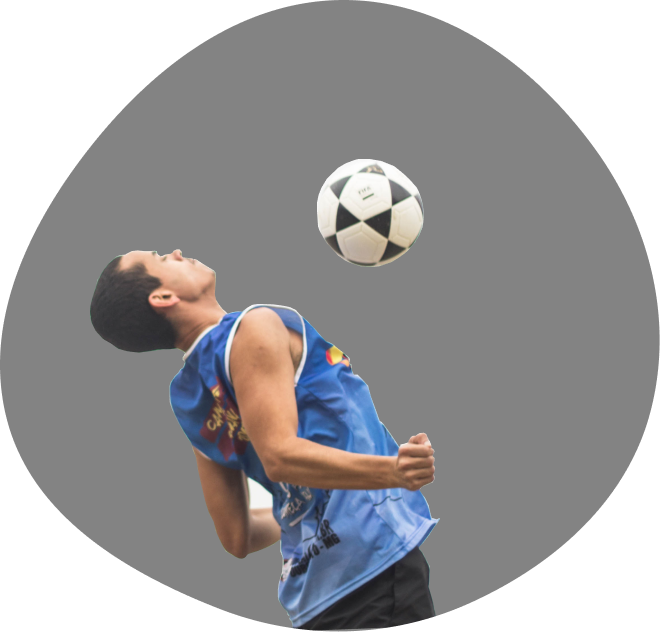
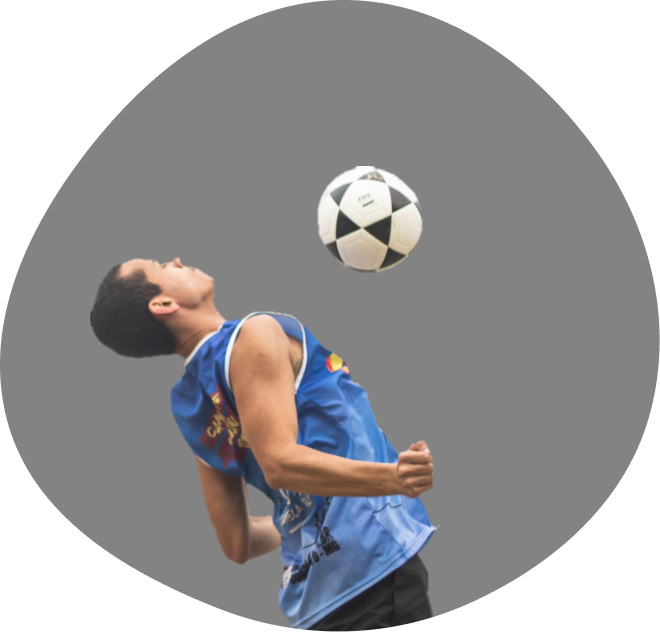
fix: player img

diff --git a/public/sw.js b/public/sw.js
@@ -1,1 +1,1 @@
-if(!self.define){let e,s={};const n=(n,a)=>(n=new URL(n+".js",a).href,s[n]||new Promise((s=>{if("document"in self){const e=document.createElement("script");e.src=n,e.onload=s,document.head.appendChild(e)}else e=n,importScripts(n),s()})).then((()=>{let e=s[n];if(!e)throw new Error(`Module ${n} didn’t register its module`);return e})));self.define=(a,i)=>{const c=e||("document"in self?document.currentScript.src:"")||location.href;if(s[c])return;let o={};const r=e=>n(e,c),t={module:{uri:c},exports:o,require:r};s[c]=Promise.all(a.map((e=>t[e]||r(e)))).then((e=>(i(...e),o)))}}define(["./workbox-5afaf374"],(function(e){"use strict";importScripts(),self.skipWaiting(),e.clientsClaim(),e.precacheAndRoute([{url:"/404.json",revision:"9134c572173e93ddd7edff3e97e013da"},{url:"/_next/static/chunks/978-c6bd2a6d2a6fff8d.js",revision:"xep8DeCKbRnAaKvUVMsRq"},{url:"/_next/static/chunks/ea88be26-4785f7f12099037b.js",revision:"xep8DeCKbRnAaKvUVMsRq"},{url:"/_next/static/chunks/framework-5f4595e5518b5600.js",revision:"xep8DeCKbRnAaKvUVMsRq"},{url:"/_next/static/chunks/main-ef3326d12c3c1441.js",revision:"xep8DeCKbRnAaKvUVMsRq"},{url:"/_next/static/chunks/pages/404-277260b7f16991fe.js",revision:"xep8DeCKbRnAaKvUVMsRq"},{url:"/_next/static/chunks/pages/_app-c825bdf7ffc8a375.js",revision:"xep8DeCKbRnAaKvUVMsRq"},{url:"/_next/static/chunks/pages/_error-2280fa386d040b66.js",revision:"xep8DeCKbRnAaKvUVMsRq"},{url:"/_next/static/chunks/pages/index-4abd5f380a1a5b12.js",revision:"xep8DeCKbRnAaKvUVMsRq"},{url:"/_next/static/chunks/pages/login-02189e4b60b38753.js",revision:"xep8DeCKbRnAaKvUVMsRq"},{url:"/_next/static/chunks/pages/register-cfd881bb6f291648.js",revision:"xep8DeCKbRnAaKvUVMsRq"},{url:"/_next/static/chunks/polyfills-5cd94c89d3acac5f.js",revision:"xep8DeCKbRnAaKvUVMsRq"},{url:"/_next/static/chunks/webpack-434fefa8f39d8fbc.js",revision:"xep8DeCKbRnAaKvUVMsRq"},{url:"/_next/static/css/159bbce6f1598e3e.css",revision:"xep8DeCKbRnAaKvUVMsRq"},{url:"/_next/static/css/249e1ad039538d01.css",revision:"xep8DeCKbRnAaKvUVMsRq"},{url:"/_next/static/css/3404455c68fd05ee.css",revision:"xep8DeCKbRnAaKvUVMsRq"},{url:"/_next/static/css/5f010ee9cf3ed134.css",revision:"xep8DeCKbRnAaKvUVMsRq"},{url:"/_next/static/css/a4e4f8197a6b2ec7.css",revision:"xep8DeCKbRnAaKvUVMsRq"},{url:"/_next/static/xep8DeCKbRnAaKvUVMsRq/_buildManifest.js",revision:"xep8DeCKbRnAaKvUVMsRq"},{url:"/_next/static/xep8DeCKbRnAaKvUVMsRq/_middlewareManifest.js",revision:"xep8DeCKbRnAaKvUVMsRq"},{url:"/_next/static/xep8DeCKbRnAaKvUVMsRq/_ssgManifest.js",revision:"xep8DeCKbRnAaKvUVMsRq"},{url:"/curvedLine.svg",revision:"6e4bea24c9fe9e0303f8dec51bd3a30d"},{url:"/favicon-16x16.png",revision:"0c33fd9f3abae07e9a6548dcedb43906"},{url:"/favicon-32x32.png",revision:"00c927bb37a46d77070f6590bc0b0420"},{url:"/favicon.ico",revision:"1714ed831eea52be280426edcb118319"},{url:"/goal.svg",revision:"f9dc8d9b0d113ce0092f998f06d84432"},{url:"/ipad_splash.png",revision:"6e3030646cda36ddf136b33c80cb0ed0"},{url:"/ipadpro1_splash.png",revision:"cac505df63ef459716e66824b8d0f409"},{url:"/ipadpro2_splash.png",revision:"85dd43f0598273d4bf6bebf0e7be65c4"},{url:"/ipadpro3_splash.png",revision:"e51e03b40cc6a1a079ede9b7cf5db720"},{url:"/iphone5_splash.png",revision:"e55c5dc2ff2160fe15fc72ff2dfbe9d9"},{url:"/iphone6_splash.png",revision:"0aa08c42cfb3bf1933dab6a82ce8bb2c"},{url:"/iphoneplus_splash.png",revision:"9d2de26b5688f10f91ca50aee6f08b51"},{url:"/iphonex_splash.png",revision:"d77144a51746448d1c3b56e15ea5012e"},{url:"/iphonexr_splash.png",revision:"1ea506e1027aaa5bfe673897f6a06341"},{url:"/iphonexsmax_splash.png",revision:"69a1ccbee557e00828a74eeb84434259"},{url:"/line.svg",revision:"6d89aed1aad6d93ab0d36829bb0f8c66"},{url:"/locales/en/404.json",revision:"1ed2c9d497d3f144d6d94e874ebb3f97"},{url:"/locales/en/common.json",revision:"631f3af55d51ff815f646cf05ba7e983"},{url:"/locales/en/footer.json",revision:"3ff1563d51f748b9a07e4c7809f7869a"},{url:"/locales/en/header.json",revision:"c88367398139da2742336516b16ea51b"},{url:"/locales/en/home.json",revision:"e8d3aa8cd5a70352f63ee9795795a985"},{url:"/locales/en/login.json",revision:"43b54357239a80400761cbac3576aadd"},{url:"/locales/en/register.json",revision:"04a3e0bfa64868748ca33ec9d83e3b5e"},{url:"/locales/pt/404.json",revision:"0c09a2fe3222cd8d6fd0ffe6dfab6f8a"},{url:"/locales/pt/common.json",revision:"91af2ad1ef582b6e33c3fe8f982ea58a"},{url:"/locales/pt/footer.json",revision:"6c3821f52d6592ea5d5559917a5e8ad2"},{url:"/locales/pt/header.json",revision:"c8bbdc40a0c694fa25bef314c6efcb13"},{url:"/locales/pt/home.json",revision:"c01fe54d52f3209dd929b6e27844f180"},{url:"/locales/pt/login.json",revision:"ce8cc10df63a6d0995f6dc142681129b"},{url:"/locales/pt/register.json",revision:"9dd6531530df54d235999bd3e7857ab1"},{url:"/logo.json",revision:"88669777d2555bf964e744d0f7a7d86c"},{url:"/logo.svg",revision:"59847573f81c4c35c5588500423a72aa"},{url:"/logo16.png",revision:"662205369fd192b9251c59bcef848978"},{url:"/logo192.png",revision:"a4b836421fe640426611844c04c03ab8"},{url:"/logo24.png",revision:"26fd0e3cdba4c1f57c9944012d42faf4"},{url:"/logo32.png",revision:"1b5116cad5c1b48823b74a5f0e4b5691"},{url:"/logo512.png",revision:"a190be539e29ddeabf75fd4ddf97e109"},{url:"/logo64.png",revision:"2fc4995edb3057c729de40dd2180948f"},{url:"/manifest.json",revision:"3957e56bc2ac18de4e46232650ae5006"},{url:"/metaTags.png",revision:"2db62dab212fad58318c9100bd32e7ed"},{url:"/player.png",revision:"1e6bd90855a91cf203052b8bf0db3466"},{url:"/soccer.svg",revision:"754d0b69a72cc9809e6806034e7f7044"},{url:"/touch-icon-ipad-retina.png",revision:"bda64bf27c876f61d218dc20b70ccc11"},{url:"/touch-icon-ipad.png",revision:"b5738966a3feebc90796565a776f8432"},{url:"/touch-icon-iphone-retina.png",revision:"1128fc702a8d17076a0c77cdef026ef9"},{url:"/up.svg",revision:"c8c3f7256bf05852a11f85d8f1ab2c5c"},{url:"/vercel.svg",revision:"4b4f1876502eb6721764637fe5c41702"}],{ignoreURLParametersMatching:[]}),e.cleanupOutdatedCaches(),e.registerRoute("/",new e.NetworkFirst({cacheName:"start-url",plugins:[{cacheWillUpdate:async({request:e,response:s,event:n,state:a})=>s&&"opaqueredirect"===s.type?new Response(s.body,{status:200,statusText:"OK",headers:s.headers}):s}]}),"GET"),e.registerRoute(/^https:\/\/fonts\.(?:gstatic)\.com\/.*/i,new e.CacheFirst({cacheName:"google-fonts-webfonts",plugins:[new e.ExpirationPlugin({maxEntries:4,maxAgeSeconds:31536e3})]}),"GET"),e.registerRoute(/^https:\/\/fonts\.(?:googleapis)\.com\/.*/i,new e.StaleWhileRevalidate({cacheName:"google-fonts-stylesheets",plugins:[new e.ExpirationPlugin({maxEntries:4,maxAgeSeconds:604800})]}),"GET"),e.registerRoute(/\.(?:eot|otf|ttc|ttf|woff|woff2|font.css)$/i,new e.StaleWhileRevalidate({cacheName:"static-font-assets",plugins:[new e.ExpirationPlugin({maxEntries:4,maxAgeSeconds:604800})]}),"GET"),e.registerRoute(/\.(?:jpg|jpeg|gif|png|svg|ico|webp)$/i,new e.StaleWhileRevalidate({cacheName:"static-image-assets",plugins:[new e.ExpirationPlugin({maxEntries:64,maxAgeSeconds:86400})]}),"GET"),e.registerRoute(/\/_next\/image\?url=.+$/i,new e.StaleWhileRevalidate({cacheName:"next-image",plugins:[new e.ExpirationPlugin({maxEntries:64,maxAgeSeconds:86400})]}),"GET"),e.registerRoute(/\.(?:mp3|wav|ogg)$/i,new e.CacheFirst({cacheName:"static-audio-assets",plugins:[new e.RangeRequestsPlugin,new e.ExpirationPlugin({maxEntries:32,maxAgeSeconds:86400})]}),"GET"),e.registerRoute(/\.(?:mp4)$/i,new e.CacheFirst({cacheName:"static-video-assets",plugins:[new e.RangeRequestsPlugin,new e.ExpirationPlugin({maxEntries:32,maxAgeSeconds:86400})]}),"GET"),e.registerRoute(/\.(?:js)$/i,new e.StaleWhileRevalidate({cacheName:"static-js-assets",plugins:[new e.ExpirationPlugin({maxEntries:32,maxAgeSeconds:86400})]}),"GET"),e.registerRoute(/\.(?:css|less)$/i,new e.StaleWhileRevalidate({cacheName:"static-style-assets",plugins:[new e.ExpirationPlugin({maxEntries:32,maxAgeSeconds:86400})]}),"GET"),e.registerRoute(/\/_next\/data\/.+\/.+\.json$/i,new e.StaleWhileRevalidate({cacheName:"next-data",plugins:[new e.ExpirationPlugin({maxEntries:32,maxAgeSeconds:86400})]}),"GET"),e.registerRoute(/\.(?:json|xml|csv)$/i,new e.NetworkFirst({cacheName:"static-data-assets",plugins:[new e.ExpirationPlugin({maxEntries:32,maxAgeSeconds:86400})]}),"GET"),e.registerRoute((({url:e})=>{if(!(self.origin===e.origin))return!1;const s=e.pathname;return!s.startsWith("/api/auth/")&&!!s.startsWith("/api/")}),new e.NetworkFirst({cacheName:"apis",networkTimeoutSeconds:10,plugins:[new e.ExpirationPlugin({maxEntries:16,maxAgeSeconds:86400})]}),"GET"),e.registerRoute((({url:e})=>{if(!(self.origin===e.origin))return!1;return!e.pathname.startsWith("/api/")}),new e.NetworkFirst({cacheName:"others",networkTimeoutSeconds:10,plugins:[new e.ExpirationPlugin({maxEntries:32,maxAgeSeconds:86400})]}),"GET"),e.registerRoute((({url:e})=>!(self.origin===e.origin)),new e.NetworkFirst({cacheName:"cross-origin",networkTimeoutSeconds:10,plugins:[new e.ExpirationPlugin({maxEntries:32,maxAgeSeconds:3600})]}),"GET")}));
+if(!self.define){let e,s={};const a=(a,i)=>(a=new URL(a+".js",i).href,s[a]||new Promise((s=>{if("document"in self){const e=document.createElement("script");e.src=a,e.onload=s,document.head.appendChild(e)}else e=a,importScripts(a),s()})).then((()=>{let e=s[a];if(!e)throw new Error(`Module ${a} didn’t register its module`);return e})));self.define=(i,n)=>{const c=e||("document"in self?document.currentScript.src:"")||location.href;if(s[c])return;let o={};const r=e=>a(e,c),t={module:{uri:c},exports:o,require:r};s[c]=Promise.all(i.map((e=>t[e]||r(e)))).then((e=>(n(...e),o)))}}define(["./workbox-5afaf374"],(function(e){"use strict";importScripts(),self.skipWaiting(),e.clientsClaim(),e.precacheAndRoute([{url:"/404.json",revision:"9134c572173e93ddd7edff3e97e013da"},{url:"/_next/static/cXOICiI2ABuu4Jhka6aeJ/_buildManifest.js",revision:"cXOICiI2ABuu4Jhka6aeJ"},{url:"/_next/static/cXOICiI2ABuu4Jhka6aeJ/_middlewareManifest.js",revision:"cXOICiI2ABuu4Jhka6aeJ"},{url:"/_next/static/cXOICiI2ABuu4Jhka6aeJ/_ssgManifest.js",revision:"cXOICiI2ABuu4Jhka6aeJ"},{url:"/_next/static/chunks/978-c6bd2a6d2a6fff8d.js",revision:"cXOICiI2ABuu4Jhka6aeJ"},{url:"/_next/static/chunks/ea88be26-4785f7f12099037b.js",revision:"cXOICiI2ABuu4Jhka6aeJ"},{url:"/_next/static/chunks/framework-5f4595e5518b5600.js",revision:"cXOICiI2ABuu4Jhka6aeJ"},{url:"/_next/static/chunks/main-ef3326d12c3c1441.js",revision:"cXOICiI2ABuu4Jhka6aeJ"},{url:"/_next/static/chunks/pages/404-277260b7f16991fe.js",revision:"cXOICiI2ABuu4Jhka6aeJ"},{url:"/_next/static/chunks/pages/_app-c825bdf7ffc8a375.js",revision:"cXOICiI2ABuu4Jhka6aeJ"},{url:"/_next/static/chunks/pages/_error-2280fa386d040b66.js",revision:"cXOICiI2ABuu4Jhka6aeJ"},{url:"/_next/static/chunks/pages/index-4abd5f380a1a5b12.js",revision:"cXOICiI2ABuu4Jhka6aeJ"},{url:"/_next/static/chunks/pages/login-02189e4b60b38753.js",revision:"cXOICiI2ABuu4Jhka6aeJ"},{url:"/_next/static/chunks/pages/register-cfd881bb6f291648.js",revision:"cXOICiI2ABuu4Jhka6aeJ"},{url:"/_next/static/chunks/polyfills-5cd94c89d3acac5f.js",revision:"cXOICiI2ABuu4Jhka6aeJ"},{url:"/_next/static/chunks/webpack-434fefa8f39d8fbc.js",revision:"cXOICiI2ABuu4Jhka6aeJ"},{url:"/_next/static/css/3404455c68fd05ee.css",revision:"cXOICiI2ABuu4Jhka6aeJ"},{url:"/_next/static/css/53ba1f43cd930639.css",revision:"cXOICiI2ABuu4Jhka6aeJ"},{url:"/_next/static/css/8241f45c1e009532.css",revision:"cXOICiI2ABuu4Jhka6aeJ"},{url:"/_next/static/css/c7422a8163e2c600.css",revision:"cXOICiI2ABuu4Jhka6aeJ"},{url:"/_next/static/css/d269e8b0045fda6d.css",revision:"cXOICiI2ABuu4Jhka6aeJ"},{url:"/curvedLine.svg",revision:"6e4bea24c9fe9e0303f8dec51bd3a30d"},{url:"/favicon-16x16.png",revision:"0c33fd9f3abae07e9a6548dcedb43906"},{url:"/favicon-32x32.png",revision:"00c927bb37a46d77070f6590bc0b0420"},{url:"/favicon.ico",revision:"1714ed831eea52be280426edcb118319"},{url:"/goal.svg",revision:"f9dc8d9b0d113ce0092f998f06d84432"},{url:"/ipad_splash.png",revision:"4788f0ecb9e6330a3b25a65d43ba1eb1"},{url:"/ipadpro1_splash.png",revision:"c2cab31163f4777351c37e316c20172c"},{url:"/ipadpro2_splash.png",revision:"66b03b2341b1af7e1ddfa5d4358a8abd"},{url:"/ipadpro3_splash.png",revision:"6fa32840129feb190ede0db0cbebdd27"},{url:"/iphone5_splash.png",revision:"4fe6b6cb81e2c72d8c364f15a293b83c"},{url:"/iphone6_splash.png",revision:"e7da15a2ba6f8e3c12c98d70347a3f20"},{url:"/iphoneplus_splash.png",revision:"0e1377a37daa027f1921f3f9d0ffa586"},{url:"/iphonex_splash.png",revision:"8fd04bd75189d059c7c9c787936bbe7c"},{url:"/iphonexr_splash.png",revision:"10ea7139190d7c1a71ee4a115a55cdf1"},{url:"/iphonexsmax_splash.png",revision:"de99321fe742096a576193360f8cde74"},{url:"/line.svg",revision:"6d89aed1aad6d93ab0d36829bb0f8c66"},{url:"/locales/en/404.json",revision:"1ed2c9d497d3f144d6d94e874ebb3f97"},{url:"/locales/en/common.json",revision:"631f3af55d51ff815f646cf05ba7e983"},{url:"/locales/en/footer.json",revision:"3ff1563d51f748b9a07e4c7809f7869a"},{url:"/locales/en/header.json",revision:"c88367398139da2742336516b16ea51b"},{url:"/locales/en/home.json",revision:"e8d3aa8cd5a70352f63ee9795795a985"},{url:"/locales/en/login.json",revision:"43b54357239a80400761cbac3576aadd"},{url:"/locales/en/register.json",revision:"04a3e0bfa64868748ca33ec9d83e3b5e"},{url:"/locales/pt/404.json",revision:"0c09a2fe3222cd8d6fd0ffe6dfab6f8a"},{url:"/locales/pt/common.json",revision:"91af2ad1ef582b6e33c3fe8f982ea58a"},{url:"/locales/pt/footer.json",revision:"6c3821f52d6592ea5d5559917a5e8ad2"},{url:"/locales/pt/header.json",revision:"c8bbdc40a0c694fa25bef314c6efcb13"},{url:"/locales/pt/home.json",revision:"c01fe54d52f3209dd929b6e27844f180"},{url:"/locales/pt/login.json",revision:"ce8cc10df63a6d0995f6dc142681129b"},{url:"/locales/pt/register.json",revision:"9dd6531530df54d235999bd3e7857ab1"},{url:"/logo.json",revision:"88669777d2555bf964e744d0f7a7d86c"},{url:"/logo.svg",revision:"59847573f81c4c35c5588500423a72aa"},{url:"/logo16.png",revision:"08dbdbb8bc8a78a4bcb25a7e1b1d785a"},{url:"/logo192.png",revision:"2e1df6e6144f0dd44c6840d02b5c8ba2"},{url:"/logo24.png",revision:"0dbe581ee4b480ee734f5988151bf3f0"},{url:"/logo32.png",revision:"49d9ea0f1e30f806264d3a16ca4effca"},{url:"/logo512.png",revision:"35fd2a6be0e6284a2cbcecfd5df9f535"},{url:"/logo64.png",revision:"c0bb56b420a952f76b1879325dca07d0"},{url:"/manifest.json",revision:"3957e56bc2ac18de4e46232650ae5006"},{url:"/metaTags.png",revision:"2db62dab212fad58318c9100bd32e7ed"},{url:"/player.png",revision:"56178c469e33158d8cbc378aeed60c07"},{url:"/soccer.svg",revision:"754d0b69a72cc9809e6806034e7f7044"},{url:"/touch-icon-ipad-retina.png",revision:"184226f6dd3beb3b06d133c141976453"},{url:"/touch-icon-ipad.png",revision:"1eaedad9b47b7b26e35afee06b0f7806"},{url:"/touch-icon-iphone-retina.png",revision:"659bd300bbd007264924e3d7bcd12819"},{url:"/up.svg",revision:"c8c3f7256bf05852a11f85d8f1ab2c5c"},{url:"/vercel.svg",revision:"4b4f1876502eb6721764637fe5c41702"}],{ignoreURLParametersMatching:[]}),e.cleanupOutdatedCaches(),e.registerRoute("/",new e.NetworkFirst({cacheName:"start-url",plugins:[{cacheWillUpdate:async({request:e,response:s,event:a,state:i})=>s&&"opaqueredirect"===s.type?new Response(s.body,{status:200,statusText:"OK",headers:s.headers}):s}]}),"GET"),e.registerRoute(/^https:\/\/fonts\.(?:gstatic)\.com\/.*/i,new e.CacheFirst({cacheName:"google-fonts-webfonts",plugins:[new e.ExpirationPlugin({maxEntries:4,maxAgeSeconds:31536e3})]}),"GET"),e.registerRoute(/^https:\/\/fonts\.(?:googleapis)\.com\/.*/i,new e.StaleWhileRevalidate({cacheName:"google-fonts-stylesheets",plugins:[new e.ExpirationPlugin({maxEntries:4,maxAgeSeconds:604800})]}),"GET"),e.registerRoute(/\.(?:eot|otf|ttc|ttf|woff|woff2|font.css)$/i,new e.StaleWhileRevalidate({cacheName:"static-font-assets",plugins:[new e.ExpirationPlugin({maxEntries:4,maxAgeSeconds:604800})]}),"GET"),e.registerRoute(/\.(?:jpg|jpeg|gif|png|svg|ico|webp)$/i,new e.StaleWhileRevalidate({cacheName:"static-image-assets",plugins:[new e.ExpirationPlugin({maxEntries:64,maxAgeSeconds:86400})]}),"GET"),e.registerRoute(/\/_next\/image\?url=.+$/i,new e.StaleWhileRevalidate({cacheName:"next-image",plugins:[new e.ExpirationPlugin({maxEntries:64,maxAgeSeconds:86400})]}),"GET"),e.registerRoute(/\.(?:mp3|wav|ogg)$/i,new e.CacheFirst({cacheName:"static-audio-assets",plugins:[new e.RangeRequestsPlugin,new e.ExpirationPlugin({maxEntries:32,maxAgeSeconds:86400})]}),"GET"),e.registerRoute(/\.(?:mp4)$/i,new e.CacheFirst({cacheName:"static-video-assets",plugins:[new e.RangeRequestsPlugin,new e.ExpirationPlugin({maxEntries:32,maxAgeSeconds:86400})]}),"GET"),e.registerRoute(/\.(?:js)$/i,new e.StaleWhileRevalidate({cacheName:"static-js-assets",plugins:[new e.ExpirationPlugin({maxEntries:32,maxAgeSeconds:86400})]}),"GET"),e.registerRoute(/\.(?:css|less)$/i,new e.StaleWhileRevalidate({cacheName:"static-style-assets",plugins:[new e.ExpirationPlugin({maxEntries:32,maxAgeSeconds:86400})]}),"GET"),e.registerRoute(/\/_next\/data\/.+\/.+\.json$/i,new e.StaleWhileRevalidate({cacheName:"next-data",plugins:[new e.ExpirationPlugin({maxEntries:32,maxAgeSeconds:86400})]}),"GET"),e.registerRoute(/\.(?:json|xml|csv)$/i,new e.NetworkFirst({cacheName:"static-data-assets",plugins:[new e.ExpirationPlugin({maxEntries:32,maxAgeSeconds:86400})]}),"GET"),e.registerRoute((({url:e})=>{if(!(self.origin===e.origin))return!1;const s=e.pathname;return!s.startsWith("/api/auth/")&&!!s.startsWith("/api/")}),new e.NetworkFirst({cacheName:"apis",networkTimeoutSeconds:10,plugins:[new e.ExpirationPlugin({maxEntries:16,maxAgeSeconds:86400})]}),"GET"),e.registerRoute((({url:e})=>{if(!(self.origin===e.origin))return!1;return!e.pathname.startsWith("/api/")}),new e.NetworkFirst({cacheName:"others",networkTimeoutSeconds:10,plugins:[new e.ExpirationPlugin({maxEntries:32,maxAgeSeconds:86400})]}),"GET"),e.registerRoute((({url:e})=>!(self.origin===e.origin)),new e.NetworkFirst({cacheName:"cross-origin",networkTimeoutSeconds:10,plugins:[new e.ExpirationPlugin({maxEntries:32,maxAgeSeconds:3600})]}),"GET")}));
